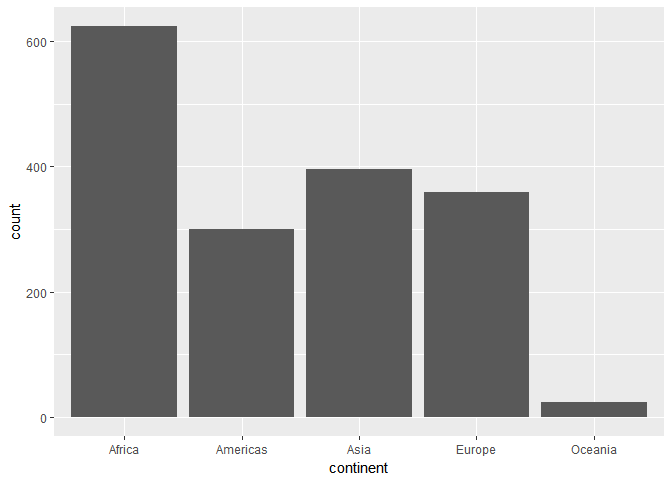
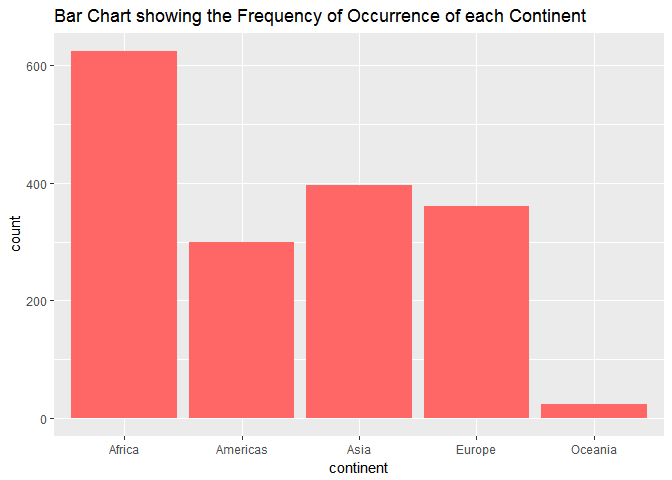
Change for formatted graphs

diff --git a/HW02/Gapminder_Explore.md b/HW02/Gapminder_Explore.md
@@ -1,7 +1,7 @@
 Gapminder\_Explore
 ================
 Shirlett
-September 24, 2017
+September 26, 2017
 
 Bring the Data In
 -----------------
@@ -71,13 +71,13 @@ summary(gapminder)
     ##  Argentina  :  12   Oceania : 24   3rd Qu.:1993   3rd Qu.:70.85  
     ##  Australia  :  12                  Max.   :2007   Max.   :82.60  
     ##  (Other)    :1632                                                
-    ##       pop              gdpPercap       
-    ##  Min.   :6.001e+04   Min.   :   241.2  
-    ##  1st Qu.:2.794e+06   1st Qu.:  1202.1  
-    ##  Median :7.024e+06   Median :  3531.8  
-    ##  Mean   :2.960e+07   Mean   :  7215.3  
-    ##  3rd Qu.:1.959e+07   3rd Qu.:  9325.5  
-    ##  Max.   :1.319e+09   Max.   :113523.1  
+    ##       pop               gdpPercap       
+    ##  Min.   :     60011   Min.   :   241.2  
+    ##  1st Qu.:   2793664   1st Qu.:  1202.1  
+    ##  Median :   7023596   Median :  3531.8  
+    ##  Mean   :  29601212   Mean   :  7215.3  
+    ##  3rd Qu.:  19585222   3rd Qu.:  9325.5  
+    ##  Max.   :1318683096   Max.   :113523.1  
     ## 
 
 ``` r
@@ -86,7 +86,7 @@ dim(gapminder)
 
     ## [1] 1704    6
 
-Based on the values returned by R's structure command, the gapminder object is a data frame with class table dataframe. There are six variables and 1704 observations. The structure command provides an abbreviated description of an object in R including the number of observations and variables.The summary function provides the information about extent and size but also provides basic statistical information. It is useful to double check results from other statistical functions. The dim function also shows the number of rows x number of columns. This function provides the least amount of information and is useful for determining whether the entire content of the dataframe can be easily The structure function also provides the data type for each variable. Country and Continent are factors or nominal values; year and population are integers; lifeExp and GDP per Capita are numbers.
+Based on the values returned by R's structure command, the gapminder object is a data frame with class table dataframe. There are six variables and 1704 observations. The structure command provides an abbreviated description of an object in R including the number of observations and variables.The summary function provides the information about extent and size but also provides basic statistical information. It is useful to double check results from other statistical functions. The dim function also shows the number of rows x number of columns. This function provides the least amount of information and is useful for determining whether the entire content of the dataframe can be easily viewed on a screen or downloaded to another framework. The structure function also provides the data type for each variable. Country and Continent are factors or nominal values; year and population are integers; lifeExp and GDP per Capita are numbers.
 
 Explore Individual Variables
 ----------------------------
@@ -103,7 +103,7 @@ with(gapminder, table(continent))
 
 ``` r
 #bar plot showing the relative frequency of the occurrence of each variable
-ggplot(gapminder, aes(x = continent)) + geom_bar()
+ggplot(gapminder, aes(x = continent)) + geom_bar(fill = "#FF6666") + ggtitle("Bar Chart showing the Frequency of Occurrence of each Continent")
 ```
 
 ![](Gapminder_Explore_files/figure-markdown_github/unnamed-chunk-3-1.png)
@@ -111,7 +111,6 @@ ggplot(gapminder, aes(x = continent)) + geom_bar()
 ``` r
 #Exploring Population as a Quantitative variable
 #One line description of the central tendency of Population
-options(scipen=15)
 summary(gapminder$pop)   
 ```
 
@@ -141,28 +140,51 @@ describe(gapminder$pop)
 
 ``` r
 #density plot to illustrate the spread of population
-ggplot(gapminder, aes(x = pop)) + geom_density()
+library(scales)
+```
+
+    ## Warning: package 'scales' was built under R version 3.3.3
+
+    ## 
+    ## Attaching package: 'scales'
+
+    ## The following objects are masked from 'package:psych':
+    ## 
+    ##     alpha, rescale
+
+    ## The following object is masked from 'package:purrr':
+    ## 
+    ##     discard
+
+    ## The following objects are masked from 'package:readr':
+    ## 
+    ##     col_factor, col_numeric
+
+``` r
+ggplot(gapminder, aes(x = pop)) + geom_density() + ggtitle("Density Plot showing the Spread of the Population in all Observations") +
+scale_x_continuous(labels = comma)
 ```
 
 ![](Gapminder_Explore_files/figure-markdown_github/unnamed-chunk-3-2.png)
 
-For continent, there are six possible values, with Africa occurring most frequently at 624. Oceania occurs the least frequently with 24 observations. Population has a much wider range, with 60,010 as the lowest number and 1,319,000,000 as the highest observation. The average population is 29,600,000 although the value in the middle is 7,024,000. Overall, the population data is skewed to the right with most values being less than the mean.
+For continent, there are six possible values, with Africa occurring most frequently at 624. Oceania occurs the least frequently with 24 observations. Population has a much wider range, with 60,010 as the lowest number and 1,319,000,000 as the highest observation. The average population is 29,600,000 although the value in the middle is 7,024,000. Overall, based on the density plot, the population data is skewed to the right with most values being less than the mean.
 
 Explore Various Plot Types
 --------------------------
 
-### BoxPlot and Density Plot
+### Barchart and Density Plot
 
 ``` r
-#This is a basic boxplot that that shows the spread of population by continent. It
-#appears that Asia has the highest population 
-ggplot(gapminder, aes(x = continent, y = pop)) + geom_col() 
+#This is a basic barchart that shows the spread of population by continent. 
+#The library scales was used to format te y-axis. It appears that Asia has the highest #population and will be explored further.
+library(scales)
+ggplot(gapminder, aes(x = continent, y = pop, color=continent)) + geom_col() +  ggtitle("Bar Chart of the Population in all Continents") + scale_y_continuous(labels = comma)
 ```
 
 ![](Gapminder_Explore_files/figure-markdown_github/unnamed-chunk-4-1.png)
 
 ``` r
-#These commands create a variable that shows the countries in Asia and the average population across the years
+#These commands create a variable that shows the countries in Asia and the average #population across the years
 library(dplyr)
 population <- gapminder %>% 
     filter(continent == "Asia") %>% 
@@ -174,9 +196,9 @@ population <- gapminder %>%
     ## Warning: package 'bindrcpp' was built under R version 3.3.3
 
 ``` r
-#This command creates a density plot to show the average population and reorients
+#This command creates a density plot to show average population and reorients
 #the labels on the x-axis. It shows that China and India have the highest population #levels
-ggplot(population, aes(x = country, y = avgpop)) + geom_density() + theme(axis.text.x = element_text(angle = 90, vjust= 0, hjust = 1)) + ggtitle("Density Plot of the Average Population in Asian Countries")
+ggplot(population, aes(x = country, y = avgpop)) + geom_density() + theme(axis.text.x = element_text(angle = 90, vjust= 0, hjust = 1)) +  scale_y_continuous(labels = comma) + ggtitle("Density Plot of the Avg Population in Asian Countries across all Years") + ylab("Average Population")
 ```
 
 ![](Gapminder_Explore_files/figure-markdown_github/unnamed-chunk-5-1.png)
@@ -184,7 +206,7 @@ ggplot(population, aes(x = country, y = avgpop)) + geom_density() + theme(axis.t
 ### ScatterPlot
 
 ``` r
-#This command modifies the data so that the GDP per Capita in the most population dense countries in Asia can be viewed. A new column is added that rounds the GDP per capita.
+#This command modifies the data so that the GDP per Capita in the most population dense #countries in Asia can be viewed. A new column is added that rounds the GDP per capita.
 pop_growth <- gapminder %>% 
     filter(country == "China"| country == "India") %>% 
     mutate(roundgdp = round(gdpPercap,  digits = 0)) %>% 
@@ -193,11 +215,9 @@ pop_growth <- gapminder %>%
 
 #These commands create a plot that shows population growth in China and India and the 
 #associated gdp per Capita. Although the populations of both countries have steadily
-#increased since 1952, after 1977, China has had a far greater gdp per capita than India.
-g1 <- ggplot(pop_growth, aes(x = year, y = pop, color=country, size = roundgdp)) + ggtitle("Plot of the Population Growth with GDP per Capita in China and India") + geom_point() +
-geom_text(aes(label=roundgdp, hjust=0.5, vjust=1.5)) + scale_x_continuous(breaks=seq(1952, 2007, 5)) 
-
-g1 
+#increased since 1952, after 1977, China has had a far greater gdp per capita than #India.
+ggplot(pop_growth, aes(x = year, y = pop, color=country, size = roundgdp)) + ggtitle("Plot of the Population Growth with GDP per Capita in China and India") + geom_point() +
+geom_text(aes(label=roundgdp, hjust=0.5, vjust=1.5)) + scale_x_continuous(breaks=seq(1952, 2007, 5)) + scale_y_continuous(labels = comma) + ylab("Population")
 ```
 
 ![](Gapminder_Explore_files/figure-markdown_github/unnamed-chunk-6-1.png)
